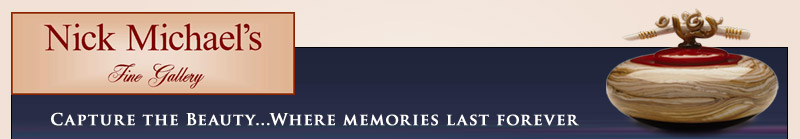
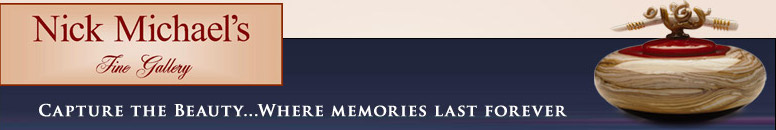
removed plupload stuff and restored to where I should have committed last time

Changed region(s): [[0.0, 0.0, 1.0, 1.0], [0.8969, 0.8923, 0.9278, 0.9538]]

diff --git a/nickmichaelsfinegallery/static/css/base.css b/nickmichaelsfinegallery/static/css/base.css
@@ -1,19 +1,94 @@
+html, body{
+    height:100%;
+}
+
+body
+{
+    margin: 0;
+    padding: 0;
+    text-align: left;
+    font-family:"Adobe Garamond Pro Bold", Georgia, "Times New Roman", Times, serif;
+    font-size: 75%;
+    color: #061C37;
+    background: rgba(140,143,184,1);
+    background: -moz-linear-gradient(top, rgba(140,143,184,1) 0%, rgba(45,49,84,1) 66%, rgba(45,49,84,1) 80%, rgba(45,49,84,1) 100%);
+    background: -webkit-gradient(left top, left bottom, color-stop(0%, rgba(140,143,184,1)), color-stop(66%, rgba(45,49,84,1)), color-stop(80%, rgba(45,49,84,1)), color-stop(100%, rgba(45,49,84,1)));
+    background: -webkit-linear-gradient(top, rgba(140,143,184,1) 0%, rgba(45,49,84,1) 66%, rgba(45,49,84,1) 80%, rgba(45,49,84,1) 100%);
+    background: -o-linear-gradient(top, rgba(140,143,184,1) 0%, rgba(45,49,84,1) 66%, rgba(45,49,84,1) 80%, rgba(45,49,84,1) 100%);
+    background: -ms-linear-gradient(top, rgba(140,143,184,1) 0%, rgba(45,49,84,1) 66%, rgba(45,49,84,1) 80%, rgba(45,49,84,1) 100%);
+    background: linear-gradient(to bottom, rgba(140,143,184,1) 0%, rgba(45,49,84,1) 66%, rgba(45,49,84,1) 80%, rgba(45,49,84,1) 100%);
+    filter: progid:DXImageTransform.Microsoft.gradient( startColorstr='#8c8fb8', endColorstr='#2d3154', GradientType=0 );
+ }
+
 *
 {
-  margin: 0 auto 0 auto;
- text-align:left;}
+    margin: 0 auto 0 auto;
+    text-align:left;
+}
+
+#page
+{
+    display: block;
+    height:100%;
+    position: relative;
+    overflow: hidden;
+    max-width: 800px;
+}
+
+.contentBox
+{
+    width:100%;
+    height:100%;
+    background-color:#F2E1D7;
+}
+
+.innerBox
+{
+    position:relative;
+    margin:10px 10px 10px 10px;
+    width:100%;
+    height:100%;
+}
 
 /************************************************************************************
-    Navigation
+    Banner & Navigation
  ************************************************************************************/
+
+.banner
+{
+    max-width: 800px;
+
+    background: #F2E1D7;
+}
+
+#bannerImage
+{
+    margin:6px 10px 0px 10px;
+    width:100%;
+    z-index: 0;
+}
+
+.innerNavigation
+{
+    display: block;
+    height:auto;
+    position:relative;
+    overflow:hidden;
+    width:auto;
+    margin:00px 10px 00px 10px;
+    border-style:solid;
+    border-width:1px;
+}
 
 .navigation
 {
-  display: block;
-  height:auto;
-  position: relative;
-  overflow: hidden;
-  width: 100%;
+    display: block;
+    height:auto;
+    position: relative;
+    overflow: hidden;
+    width: 100%;
+    background: #F2E1D7;
+    margin-top:-5px;
 }
 
 ul.mainNavigation{
@@ -21,19 +96,20 @@ ul.mainNavigation{
 	margin:0;
 	padding:0;
 	overflow:hidden;
+	background: #6B100F;
 }
 
 ul.mainNavigation li{
 	text-align:center;
 	position:relative;
 	margin-top:5px;
-	font-size:16px;
+	font-weight:bold;
 	margin-left:-10px;
 	width:121px;
 	height: 35px;
 	line-height: 35px;
 	float:left;
-	color:#CEEAEE;
+	color:#FFFFFF;
 	font-family:"Adobe Garamond Pro Bold", Georgia, "Times New Roman", Times, serif;
 }
 
@@ -44,13 +120,12 @@ ul.mainNavigation a:link,a:visited{
 	color:#FFFFFF;
 	text-align:center;
 	text-decoration:none;
-	color:#CDE2FC;
 }
 
 ul.mainNavigation a:hover, ul.siteNavigation a:active{
 	text-align:center;
 	border-bottom:none;
-	color:#0C61C9;
+	color:#FFFFFF;
 	display: block;
 	width:121px;
 	height: 35px;
@@ -69,49 +144,48 @@ ul.mainNavigation li.navTabActive{
 	background-image:url(tab.png);
 }
 
-#headerTitle
-{
-position:relative;
-top:30px;
-left:40px;
-font-size:25px;
-color:#FFFFFF;
-font-family:"Adobe Garamond Pro Bold", Georgia, "Times New Roman", Times, serif;
-}
+/************************************************************************************
+    Header & Footer
+ ************************************************************************************/
 
 #headerSubtext
 {
-position:relative;
-top:30px;
-left:50px;
-font-size:14px;
-color:#A9C8FA;
-font-family:"Adobe Garamond Pro Bold", Georgia, "Times New Roman", Times, serif;
+    position:relative;
+    top:30px;
+    left:50px;
+    font-size:14px;
+    color:#A9C8FA;
+    font-family:"Adobe Garamond Pro Bold", Georgia, "Times New Roman", Times, serif;
 }
 
-.contentBox
+#headerTitle
 {
-width:100%;
-height:auto;
-background-color:#FFFFFF;
-margin-top:10px;
+    position:relative;
+    top:30px;
+    left:40px;
+    font-size:25px;
+    color:#FFFFFF;
+    font-family:"Adobe Garamond Pro Bold", Georgia, "Times New Roman", Times, serif;
 }
 
 #footer
 {
-width: 100%;
-height:16px;
-background: #2c66a0;
-text-align:center;
-font-size:9px;
-font-family:Arial, Helvetica, sans-serif;
-color:#303030;
-padding-top:5px;
+    position:absolute;
+    bottom:0;
+    width: 100%;
+    max-width: 800px;
+    height:16px;
+    background: #F2E1D7;
+    text-align:center;
+    font-size:9px;
+    font-family:Arial, Helvetica, sans-serif;
+    color:#000000;
+    padding-top:5px;
 }
 
 #footer a
 {
-text-decoration:none;
-font-size:9px;
-color:#386172;
+    text-decoration:none;
+    font-size:9px;
+    color:#386172;
 }

diff --git a/nickmichaelsfinegallery/templates/base.html b/nickmichaelsfinegallery/templates/base.html
@@ -1,0 +1,41 @@
+<!doctype html>
+<html>
+    <head>
+        {% block head %}
+        <title>{{title}}</title>
+        <link rel="stylesheet" href="/static/css/base.css" />
+        {% endblock %}
+    </head>
+    <body>
+        <div id="page">
+            <div class="banner">
+                <img id="bannerImage" src="/static/img/website_banner.jpg" alt="Nick Michael's Website Banner">
+            </div>
+            <div class="navigation">
+                <div class="innerNavigation">
+                    <ul class="mainNavigation">
+                            <li id="homeTab"><a href="/">Home</a></li>
+                            <li id="artistsTab"><a href="/artists">Artists</a></li>
+                            <li id="aboutTab"><a href="/about">About Us</a></li>
+                            <li id="manageArtTab"><a href="/manageArt">Manage Art</a></li>
+                            <li id="login"><a href="{{loginURL}}">{{loginTitle}}</a></li>
+                    </ul>
+                 </div>
+            </div>
+
+            <div class="contentBox">
+                <div class="innerContentBox">
+                    {% block content %}
+                        This is where the different content for each page goes (from child template)
+                    {% endblock %}
+                </div>
+            </div>
+
+            <div id="footer">
+                {% block footer %}
+                Web Design by Dustin Youngberg   &copy; Copyright 2014 by Avsolen, LLC.
+                {% endblock %}
+            </div>
+        </div>
+    </body>
+</html>

diff --git a/nickmichaelsfinegallery/controllers/BaseController.py b/nickmichaelsfinegallery/controllers/BaseController.py
@@ -1,0 +1,31 @@
+import webapp2
+import jinja2
+import os
+
+from google.appengine.api import users
+
+JINJA_ENVIRONMENT = jinja2.Environment(
+    loader=jinja2.FileSystemLoader(os.path.dirname(os.path.dirname(__file__))))
+
+class MainPage(webapp2.RequestHandler):
+
+    def get(self):
+        template = JINJA_ENVIRONMENT.get_template('/templates/base.html')
+
+
+        loginTitle = ""
+        loginURL = ""
+        user = users.get_current_user()
+        if user:
+            loginTitle = "logout"
+            loginURL= users.create_logout_url('/')
+        else:
+            loginTitle = "login"
+            loginURL= users.create_login_url('/')
+
+        templateVars = {
+                        "title" : "Nick Michael's Fine Gallery",
+                        "loginURL" : loginURL,
+                        "loginTitle":loginTitle}
+
+        self.response.write(template.render(templateVars))

diff --git a/nickmichaelsfinegallery/models/picture.py b/nickmichaelsfinegallery/models/picture.py
@@ -2,5 +2,6 @@ from google.appengine.ext import ndb
 
 class Picture (ndb.Model):
     """Models an individual Picture entry"""
+    description = ndb.StringProperty(indexed=False)
+    file_name = ndb.StringProperty(indexed=True)
     picture = ndb.BlobProperty(default=None)
-    pictureName = ndb.StringProperty(indexed=False)

diff --git a/nickmichaelsfinegallery/routes/home.py b/nickmichaelsfinegallery/routes/home.py
@@ -1,6 +1,6 @@
 import webapp2
 
-from controllers.PublicHomeController import *
+from controllers.BaseController import *
 
 app = webapp2.WSGIApplication([
 
